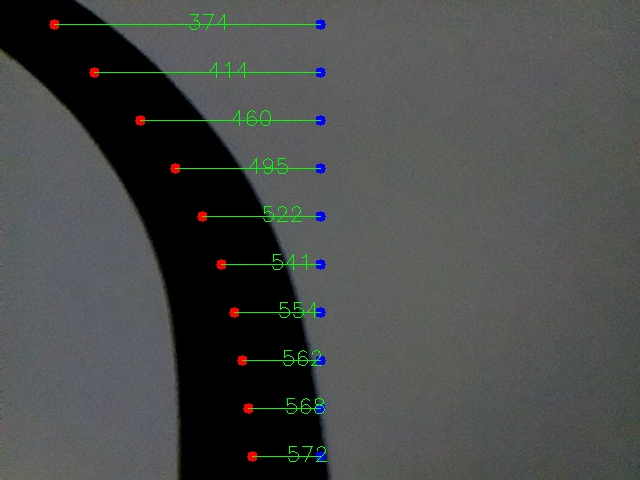
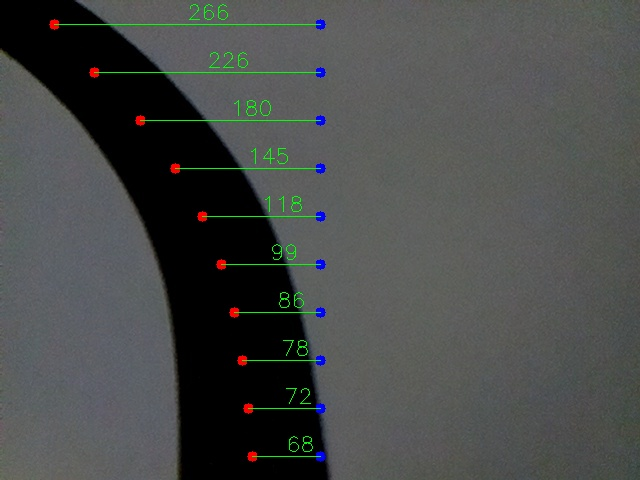
distancia certa

diff --git a/track_finder.py b/track_finder.py
@@ -57,7 +57,7 @@ def desenha_imagem(img, pontos_trajetoria):
         imagem_desenhada = cv2.circle(imagem_desenhada, (centro_largura,ponto[1]), 5, (255,0,0), -1) #marcando os pontos centrais em azul
         imagem_desenhada = cv2.line(imagem_desenhada, (centro_largura,ponto[1]),(ponto),(0,255,0))
         distancia = (centro_largura+ponto[0]) #distancia entre ponto central e trajetoria
-        imagem_desenhada = cv2.putText(imagem_desenhada, str(distancia), (distancia//2,ponto[1]-5), cv2.FONT_HERSHEY_SIMPLEX, 0.7, (0,255,0))
+        imagem_desenhada = cv2.putText(imagem_desenhada, str(abs(ponto[0]-centro_largura)), (distancia//2,ponto[1]-5), cv2.FONT_HERSHEY_SIMPLEX, 0.7, (0,255,0))
     cv2.imwrite("img.jpg",imagem_desenhada)
 
 
